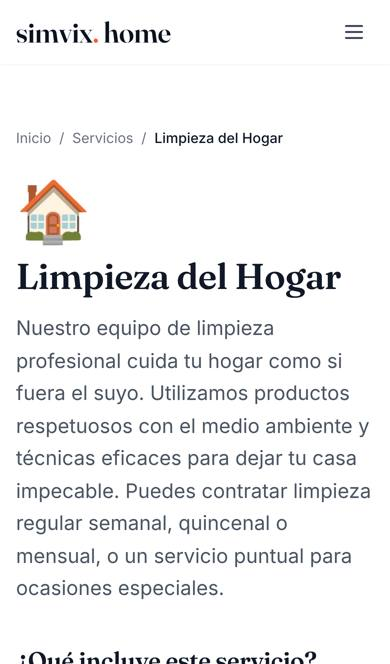
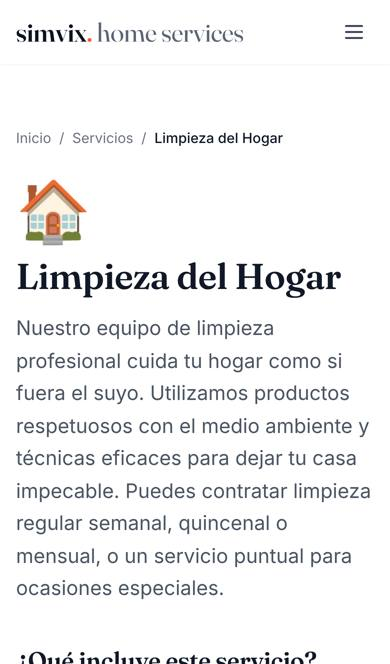
Marca: dibujos definitivos del grupo (#24)
Claude-Session: https://claude.ai/code/session_017UCRTFRDxRFutSMif6G7gt

Changed region(s): [[0.0615, 0.0301, 0.6154, 0.0904]]

diff --git a/src/components/Footer.tsx b/src/components/Footer.tsx
@@ -16,8 +16,8 @@ export default function Footer() {
               <Image
                 src="/brand/simvix-home-logotipo-oscuro.svg"
                 alt="simvix. home"
-                width={155}
-                height={25}
+                width={228}
+                height={23}
                 unoptimized
               />
             </div>

diff --git a/src/components/Header.tsx b/src/components/Header.tsx
@@ -16,8 +16,8 @@ export default function Header() {
             <Image
               src="/brand/simvix-home-logotipo.svg"
               alt="simvix. home"
-              width={155}
-              height={25}
+              width={228}
+              height={23}
               priority
               unoptimized
             />

diff --git a/scripts/brand/generar-marca.py b/scripts/brand/generar-marca.py
@@ -47,46 +47,43 @@ def adv(ch):
     return gs[glyph(ch)].width
 
 
-# ---- Simbolo «h.» (viewBox 0 0 64 64, plantilla del «d.» de DevPulse) ----
-R = 4.68
-GAP = 2.6
-xmin, _, xmax, ymax = bounds("h")
-s = 44 / ymax  # altura del asta = 44 de 64
-lw = (xmax - xmin) * s
-total = lw + GAP + 2 * R
-x0 = (64 - total) / 2 - xmin * s
-base = 54
-h_path = path_for("h", x0, base, s)
-cx = x0 + xmax * s + GAP + R
-cy = base - R
+# ---- Simbolo «h.»: dibujo definitivo de la sesion de identidad del grupo (no se redibuja) ----
+H_PATH = "M20.19 33.78 18.93 32.48 20 31.52Q23.5 28.33 26.1 27.05Q28.7 25.77 30.98 25.77Q34.53 25.77 36.69 28.02Q38.85 30.28 38.85 34.08V47.98Q38.85 48.88 39.11 49.3Q39.38 49.71 39.9 49.87L40.86 50.15Q41.41 50.34 41.65 50.63Q41.88 50.92 41.88 51.33Q41.88 51.86 41.52 52.16Q41.16 52.46 40.39 52.46H29.74Q28.2 52.46 28.2 51.25Q28.2 50.51 29.06 50.15L30.1 49.87Q30.65 49.68 30.89 49.27Q31.12 48.86 31.12 47.98V35.21Q31.12 32.78 29.94 31.59Q28.75 30.39 26.77 30.39Q25.53 30.39 24.14 30.97Q22.75 31.55 21.29 32.81ZM21.02 13.3V48.06Q21.02 48.91 21.27 49.3Q21.51 49.68 22.01 49.87L23 50.15Q23.88 50.51 23.88 51.25Q23.88 52.46 22.34 52.46H11.72Q10.95 52.46 10.59 52.16Q10.23 51.86 10.23 51.33Q10.23 50.92 10.47 50.63Q10.7 50.34 11.25 50.15L12.32 49.87Q12.82 49.68 13.05 49.3Q13.29 48.91 13.29 48.06V17.92Q13.29 17.24 13.08 16.93Q12.87 16.63 12.41 16.55L10.95 16.44Q10.45 16.3 10.23 16.05Q10.01 15.8 10.01 15.42Q10.01 14.98 10.27 14.7Q10.53 14.43 11.28 14.15L16.4 12.28Q17.44 11.9 18.07 11.72Q18.71 11.54 19.29 11.54Q20.14 11.54 20.58 12.02Q21.02 12.5 21.02 13.3Z"
+DOT_PATH = "M44.63 47.78a4.68 4.68 0 1 0 9.36 0a4.68 4.68 0 1 0 -9.36 0Z"
+LABEL = "Simvix Home Services"
 
 
-def simbolo(letter, dot, bg=None, pad=0.0, radius=0):
-    """bg: baldosa de fondo; pad: margen relativo para iconos."""
-    inner = f'<path fill="{letter}" d="{h_path}"/><circle fill="{dot}" cx="{cx:.2f}" cy="{cy:.2f}" r="{R}"/>'
-    if pad:
-        k = 1 - 2 * pad
-        inner = f'<g transform="translate({64 * pad:.2f} {64 * pad:.2f}) scale({k:.4f})">{inner}</g>'
+def simbolo(letter, bg=None, scale=1.0, radius=0):
+    inner = f'<path d="{H_PATH}" fill="{letter}"/><path d="{DOT_PATH}" fill="{CORAL}"/>'
+    if scale != 1.0:
+        off = 32 * (1 - scale)
+        inner = f'<g transform="translate({off:.2f} {off:.2f}) scale({scale})">{inner}</g>'
     rect = f'<rect width="64" height="64" rx="{radius}" fill="{bg}"/>' if bg else ""
     return (
-        '<svg xmlns="http://www.w3.org/2000/svg" viewBox="0 0 64 64" role="img" aria-label="simvix. home">'
-        f"<title>simvix. home</title>{rect}{inner}</svg>\n"
+        '<svg xmlns="http://www.w3.org/2000/svg" width="64" height="64" viewBox="0 0 64 64" '
+        f'role="img" aria-label="{LABEL}"><title>{LABEL}</title>{rect}{inner}</svg>\n'
     )
 
 
-(out / "simvix-home-marca.svg").write_text(simbolo(INK, CORAL))
-(out / "simvix-home-marca-oscuro.svg").write_text(simbolo(WHITE, CORAL))
-(out / "favicon.svg").write_text(simbolo(WHITE, CORAL, bg=INK, pad=0.12, radius=14))
-(out / "_icono-baldosa.svg").write_text(simbolo(WHITE, CORAL, bg=INK, pad=0.16, radius=14))
-(out / "_icono-sangre.svg").write_text(simbolo(WHITE, CORAL, bg=INK, pad=0.24, radius=0))
+(out / "simvix-home-marca.svg").write_text(simbolo(INK))
+(out / "simvix-home-marca-oscuro.svg").write_text(simbolo(WHITE))
+(out / "favicon.svg").write_text(simbolo(WHITE, bg=INK, radius=14))
+(out / "_icono-sangre.svg").write_text(simbolo(WHITE, bg=INK, scale=0.7))
 
-# ---- Logotipo «simvix. home» ----
+# ---- Logotipo «simvix. home services»: «simvix.» Fraunces 600 tinta + punto coral, producto en 400 gris ----
+GRAY = "#5B6476"
+GRAY_DARK = "#A3AAB8"  # el gris sobre tinta (8:1)
+font400 = instantiateVariableFont(TTFont(src), {"wght": 400, "opsz": 144, "SOFT": 0, "WONK": 0})
+gs400 = font400.getGlyphSet()
 S = 1.0 / upm * 100  # 100 px por em
 parts, x = [], 0.0
-for ch, fill in [*[(c, INK) for c in "simvix"], (".", CORAL), (" ", None), *[(c, INK) for c in "home"]]:
-    if fill:
-        parts.append((fill, path_for(ch, x, 0, S)))
-    x += adv(ch) * S
+for ch, role, g in [*[(c, "ink", gs) for c in "simvix"], (".", "dot", gs), *[(c, "gray", gs400) for c in " home services"]]:
+    if ch != " ":
+        pen = SVGPathPen(g)
+        g[glyph(ch)].draw(TransformPen(pen, (S, 0, 0, -S, x, 0)))
+        d = re.sub(r"-?\d+\.\d+", lambda m: f"{float(m.group()):.2f}".rstrip("0").rstrip("."), pen.getCommands())
+        parts.append((role, d))
+    x += g[glyph(ch)].width * S
 width = x
 top = max(bounds(c)[3] for c in "simvixhome") * S
 desc = -min(bounds(c)[1] for c in "simvixhome") * S
@@ -94,15 +91,15 @@ padv = 4
 H = top + desc + 2 * padv
 
 
-def logotipo(ink):
-    body = "".join(f'<path fill="{ink if f == INK else f}" d="{d}"/>' for f, d in parts)
+def logotipo(ink, gray):
+    colors = {"ink": ink, "dot": CORAL, "gray": gray}
+    body = "".join(f'<path fill="{colors[r]}" d="{d}"/>' for r, d in parts)
     return (
         f'<svg xmlns="http://www.w3.org/2000/svg" viewBox="0 {-(top + padv):.2f} {width:.2f} {H:.2f}" '
-        'role="img" aria-label="simvix. home"><title>simvix. home</title>'
-        f"{body}</svg>\n"
+        f'role="img" aria-label="{LABEL}"><title>{LABEL}</title>{body}</svg>\n'
     )
 
 
-(out / "simvix-home-logotipo.svg").write_text(logotipo(INK))
-(out / "simvix-home-logotipo-oscuro.svg").write_text(logotipo(WHITE))
-print(f"ok: simbolo h. (escala {s:.4f}, punto en {cx:.2f},{cy:.2f}); logotipo {width:.1f}x{H:.1f}")
+(out / "simvix-home-logotipo.svg").write_text(logotipo(INK, GRAY))
+(out / "simvix-home-logotipo-oscuro.svg").write_text(logotipo(WHITE, GRAY_DARK))
+print(f"ok: simbolo definitivo; logotipo {width:.1f}x{H:.1f}")

diff --git a/docs/adr/0009-la-marca-usa-los-dibujos-definitivos-del-grupo.md b/docs/adr/0009-la-marca-usa-los-dibujos-definitivos-del-grupo.md
@@ -1,0 +1,28 @@
+# ADR 0009 — La marca usa los dibujos definitivos del grupo
+
+- **Estado:** aceptado (sustituye en parte al ADR 0008: simbolo y logotipo)
+- **Fecha:** 2026-11-03
+- **Fase:** 5
+- **Decide:** Constructor, auditado por el Critico
+
+## Contexto
+La sesion que diseno la identidad «simvix.» (elegida por el usuario) envio los dibujos definitivos
+para este repositorio despues del merge de #22. El simbolo de #22 se habia redibujado desde Fraunces y
+el logotipo decia «simvix. home» en un solo peso.
+
+## Decision
+El simbolo «h.» es el trazado definitivo recibido, sin redibujar (en `scripts/brand/generar-marca.py`),
+y el logotipo es «simvix.» en Fraunces 600 tinta con punto coral mas «home services» en Fraunces 400
+gris `#5B6476` (`#A3AAB8` en la version oscura). Favicon, `icon-192`, `icon-512` y `apple-touch-icon`
+son el render de `favicon.svg` (baldosa tinta, rx 14); el maskable es tinta a sangre con el simbolo al 70 %.
+
+## Alternativas consideradas
+| Alternativa | Por que no |
+|---|---|
+| Mantener el simbolo generado en #22 | Diverge del dibujo del grupo; la regla es usarlo tal cual |
+
+## Consecuencias
+Misma geometria que el resto de productos del grupo. Etiqueta accesible «Simvix Home Services».
+
+## Verificacion
+`#5B6476` sobre blanco 5,95:1; `#A3AAB8` sobre tinta 8,0:1. Capturas en `docs/brand/capturas/`.
